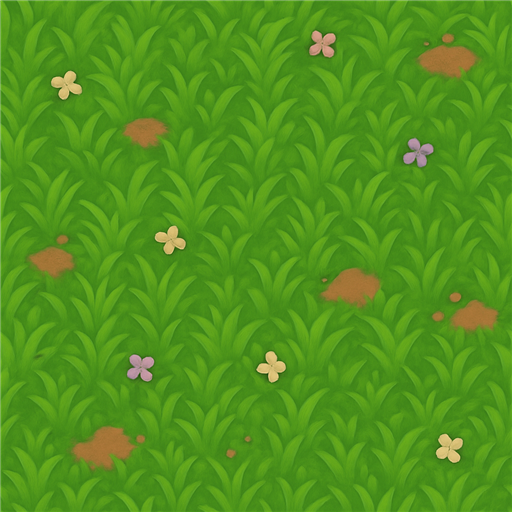
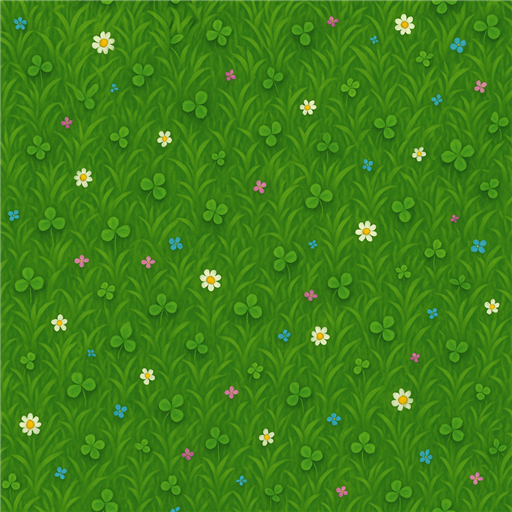
feat: RENDERIZACAO PREMIUM (bloom + IBL + anisotropia + ceu panoramico) + Thais destravada
PIPELINE PREMIUM (o salto de qualidade visual):
- BLOOM cinematografico no PC (UnrealBloomPass): lava, runas, tochas,
  chamas e olhos de monstro IRRADIAM luz de verdade
- ILUMINACAO DE AMBIENTE (IBL via PMREM/RoomEnvironment): metais,
  vidros, agua e armaduras refletem o entorno
- ANISOTROPIA 8x em TODAS as texturas: o chao fica NITIDO ate o
  horizonte (era o grande culpado do visual borrado)
- CEU PANORAMICO pintado (gerado por IA, equiretangular) com nuvens
  majestosas; o ciclo dia/noite tinge o panorama
- mobile continua no caminho direto (fluidez primeiro)

TEXTURAS PREMIUM (leva 3, quality HIGH):
- grama/pedra/telha REGENERADAS em alta qualidade (mais detalhe)
- madeira nova: tabuas reais no pier do porto e pisos das casas
- ceu 1024x512 (~800KB)

THAIS DESTRAVADA:
- casas mais estreitas (8.2) = vielas largas; centro das fileiras vazio
  = ruas transversais (sem becos que prendiam o jogador)
- metade das ameias da muralha (peso 50% menor, mesma silhueta)

diff --git a/src/main3d.js b/src/main3d.js
@@ -21,6 +21,10 @@ import { criaEsgoto } from './jogo/esgoto.js';
 import { criaRato, criaRatos, atualizaRatos, criaCobra, criaCrocodilo, criaTroll, criaCyclops, criaAranhaGigante, criaAranhaPequena, criaLadrao, criaEscorpiao, criaBeholder, criaDragao, criaLobo, criaUrso, criaEsqueleto, criaOrc, criaCaranguejo } from './jogo/ratos.js';
 import { criaHUD } from './jogo/hud.js';
 import { aplicaTexturaReal } from './jogo/construcoes.js';
+import { EffectComposer } from 'three/addons/postprocessing/EffectComposer.js';
+import { RenderPass } from 'three/addons/postprocessing/RenderPass.js';
+import { UnrealBloomPass } from 'three/addons/postprocessing/UnrealBloomPass.js';
+import { RoomEnvironment } from 'three/addons/environments/RoomEnvironment.js';
 
 const container = document.getElementById('game');
 // celular/tablet → modo leve (sem sombras, menos luz, menos pixels) p/ fluidez
@@ -59,7 +63,25 @@ container.appendChild(renderer.domElement);
 
 const camera = new THREE.PerspectiveCamera(60, window.innerWidth / window.innerHeight, 0.1, 900);
 
+// === RENDERIZAÇÃO PREMIUM ===
+// BLOOM (PC): lava, runas, tochas e olhos de monstro IRRADIAM luz de verdade.
+// No mobile fica o caminho direto (fluidez primeiro).
+let composer = null;
+if (!ehMobile) {
+  composer = new EffectComposer(renderer);
+  composer.addPass(new RenderPass(null, camera)); // a cena entra logo abaixo (criaCidade)
+  composer.addPass(new UnrealBloomPass(new THREE.Vector2(window.innerWidth, window.innerHeight), 0.38, 0.55, 0.82));
+}
+
 const { scene, ceu, hemi, sun, skyMat, lua, luaLuz, luaMat, estrelas, postes, obstaculos, solidos, aguas, nuvens, fonteGotas, ruas, marcos, animados, interativos, casas, lagos, montanhaDragao } = criaCidade();
+// liga o bloom na cena + ILUMINAÇÃO DE AMBIENTE (IBL): metais, vidros e água
+// passam a refletir o entorno — o salto de "protótipo" pra "premium"
+if (composer) {
+  composer.passes[0].scene = scene;
+  const pmrem = new THREE.PMREMGenerator(renderer);
+  scene.environment = pmrem.fromScene(new RoomEnvironment(), 0.04).texture;
+  scene.environmentIntensity = 0.55;
+}
 // ALTURA DO TERRENO: plano em todo o mapa, exceto a Montanha do Dragão (rampa
 // cônica escalável até o platô). O avatar "gruda" nessa altura ao andar.
 function alturaTerreno(x, z) {
@@ -563,8 +585,12 @@ function aplicaDiaNoite(dt) {
   ehNoite = d < 0.35;
   sun.intensity = 0.12 + d * 1.25;
   hemi.intensity = 0.22 + d * 0.72;
-  skyMat.uniforms.corTopo.value.copy(C_TOPO_NOITE).lerp(C_TOPO_DIA, d);
-  skyMat.uniforms.corBase.value.copy(C_BASE_NOITE).lerp(C_BASE_DIA, d);
+  if (ceu.material.map) { // céu panorâmico: tinge do dia (branco) pra noite (azul-escuro)
+    ceu.material.color.setRGB(0.16 + d * 0.84, 0.2 + d * 0.8, 0.34 + d * 0.66);
+  } else {
+    skyMat.uniforms.corTopo.value.copy(C_TOPO_NOITE).lerp(C_TOPO_DIA, d);
+    skyMat.uniforms.corBase.value.copy(C_BASE_NOITE).lerp(C_BASE_DIA, d);
+  }
   if (scene.fog) scene.fog.color.copy(C_FOG_NOITE).lerp(C_FOG_DIA, d);
   const noite = 1 - d;
   // LUAR: a lua brilha mais à noite (mas fica visível de dia, pálida) + estrelas surgem
@@ -1469,7 +1495,7 @@ function loop() {
   if (jogoIniciado) minimapa.atualiza(avatar, rede ? rede.outros : null);
   ceu.position.copy(camera.position); // céu sempre em volta da câmera (mundo grande)
 
-  renderer.render(scene, camera);
+  if (composer) composer.render(); else renderer.render(scene, camera);
   requestAnimationFrame(loop);
 }
 loop();
@@ -1478,6 +1504,7 @@ window.addEventListener('resize', () => {
   camera.aspect = window.innerWidth / window.innerHeight;
   camera.updateProjectionMatrix();
   renderer.setSize(window.innerWidth, window.innerHeight);
+  if (composer) composer.setSize(window.innerWidth, window.innerHeight);
 });
 
 window.__jogo = {

diff --git a/src/jogo/interiores.js b/src/jogo/interiores.js
@@ -6,7 +6,7 @@
 //  Devolve { grupo, colisores, interativo (porta), animados, casa }.
 // =============================================================
 import * as THREE from 'three';
-import { mat, criaJanela, texturaPedra } from './construcoes.js';
+import { mat, criaJanela, texturaPedra, aplicaTexturaReal } from './construcoes.js';
 
 export function criaCasaInterior(x, z, opts = {}) {
   const { larg = 9, prof = 9, alt = 4, frente = 'sul', cor = 0xd8c4a0, corTelhado = 0x8a4632 } = opts;
@@ -15,8 +15,10 @@ export function criaCasaInterior(x, z, opts = {}) {
   const paredeMat = mat(cor);
   const colisores = [];
 
-  // chão de tábua
-  const chao = new THREE.Mesh(new THREE.BoxGeometry(larg, 0.1, prof), mat(0x8a6a44));
+  // chão de tábua (textura REAL de madeira quando carregar)
+  const chaoMat = new THREE.MeshStandardMaterial({ color: 0x8a6a44, roughness: 1 });
+  aplicaTexturaReal(chaoMat, 'madeira', 2, 2);
+  const chao = new THREE.Mesh(new THREE.BoxGeometry(larg, 0.1, prof), chaoMat);
   chao.position.y = 0.05; chao.receiveShadow = true; g.add(chao);
 
   // segmento de parede (caixa) + colisor em coords do mundo

diff --git a/src/jogo/cidade.js b/src/jogo/cidade.js
@@ -32,6 +32,7 @@ function texturaGrama(rep = 60) {
   }
   const t = new THREE.CanvasTexture(c);
   t.wrapS = t.wrapT = THREE.RepeatWrapping; t.repeat.set(rep, rep);
+  t.anisotropy = 8; // nitidez ao longe
   return t;
 }
 
@@ -48,6 +49,12 @@ export function criaCidade() {
   });
   const ceu = new THREE.Mesh(new THREE.SphereGeometry(600, 24, 16), skyMat);
   scene.add(ceu);
+  // CÉU PREMIUM: panorama pintado (gerado por IA) substitui o gradiente quando
+  // carregar; o ciclo dia/noite passa a TINGIR o panorama (main3d)
+  new THREE.TextureLoader().load('texturas/ceu.png', (t) => {
+    t.colorSpace = THREE.SRGBColorSpace;
+    ceu.material = new THREE.MeshBasicMaterial({ map: t, side: THREE.BackSide, fog: false });
+  }, undefined, () => {});
 
   const hemi = new THREE.HemisphereLight(0xcfe2f5, 0x6f6a52, 0.95);
   scene.add(hemi);

diff --git a/src/jogo/thais.js b/src/jogo/thais.js
@@ -30,7 +30,7 @@ export function criaThais(cx, cz, opts = {}) {
 
   // --- MURALHA com ameias ---
   function ameias(lx, lz, comp, eixo) {
-    const n = Math.max(1, Math.floor(comp / 2.4));
+    const n = Math.max(1, Math.floor(comp / 4.2)); // metade das ameias (peso 50% menor, mesma silhueta)
     for (let i = 0; i < n; i++) {
       const t = -comp / 2 + comp / n / 2 + i * (comp / n);
       const a = new THREE.Mesh(new THREE.BoxGeometry(eixo === 'x' ? 1.2 : ESP + 0.3, 1.3, eixo === 'x' ? ESP + 0.3 : 1.2), pedraClara);
@@ -132,8 +132,11 @@ export function criaThais(cx, cz, opts = {}) {
   const coresT = [0xd8c8a4, 0xcdb892, 0xd2c19a, 0xcab98e, 0xdccfae];
   const telhT = [0xc0653a, 0x2f8d80, 0x9a4a3a, 0xb8742a];
   let ci = 0;
+  // casas mais estreitas (8.2) = vielas LARGAS; o centro de cada fileira fica
+  // vazio = ruas transversais (o jogador não TRAVA mais em beco)
   for (const lz of [32, -32, 44, -44]) for (let lx = -36; lx <= 36; lx += 12) {
-    predio(lx, lz, 9, 8, 6 + (ci % 3), coresT[ci % coresT.length], telhT[ci % telhT.length]); ci++;
+    if (lx === 0) { ci++; continue; } // rua transversal norte-sul
+    predio(lx, lz, 8.2, 8, 6 + (ci % 3), coresT[ci % coresT.length], telhT[ci % telhT.length]); ci++;
   }
   [[-46, -16], [-46, 16]].forEach(([lx, lz]) => { predio(lx, lz, 8, 8, 7, coresT[ci % 5], telhT[ci % 4]); ci++; });
   [[44, -24], [44, -8], [44, 8], [44, 24]].forEach(([lx, lz]) => { predio(lx, lz, 9, 8, 6 + (ci % 3), coresT[ci % 5], telhT[ci % 4], 'x'); ci++; });

diff --git a/src/jogo/natureza.js b/src/jogo/natureza.js
@@ -223,7 +223,9 @@ export function criaPlaca(x, z, texto = '→ THAIS', rot = 0) {
 export function criaCais(x, z, comp = 12) {
   const g = new THREE.Group(); g.position.set(x, 0, z);
   const mad = mat(0x6e4a2a), madEsc = mat(0x4f3318);
-  const deck = new THREE.Mesh(new THREE.BoxGeometry(3, 0.16, comp), mad);
+  const deckMat = new THREE.MeshStandardMaterial({ color: 0x8a6a44, roughness: 1 });
+  aplicaTexturaReal(deckMat, 'madeira', 1, 4); // tábuas REAIS no píer
+  const deck = new THREE.Mesh(new THREE.BoxGeometry(3, 0.16, comp), deckMat);
   deck.position.set(0, 0.22, comp / 2); deck.receiveShadow = true; deck.castShadow = true; g.add(deck);
   for (let i = 0; i <= comp / 2; i++) {
     [-1.3, 1.3].forEach((px) => {

diff --git a/src/jogo/construcoes.js b/src/jogo/construcoes.js
@@ -20,6 +20,7 @@ export function aplicaTexturaReal(material, arquivo, rx, rz, manterCor = false) 
     t.wrapS = t.wrapT = THREE.RepeatWrapping;
     t.repeat.set(rx, rz);
     t.colorSpace = THREE.SRGBColorSpace;
+    t.anisotropy = 8; // NITIDEZ em ângulo raso (o chão não borra mais ao longe)
     material.map = t;
     if (!manterCor) material.color.set(0xffffff);
     material.needsUpdate = true;
@@ -48,7 +49,7 @@ export function texturaPedra(rep = 6) {
     _texPedra = new THREE.CanvasTexture(c);
     _texPedra.wrapS = _texPedra.wrapT = THREE.RepeatWrapping;
   }
-  const t = _texPedra.clone(); t.needsUpdate = true; t.repeat.set(rep, rep); return t;
+  const t = _texPedra.clone(); t.needsUpdate = true; t.repeat.set(rep, rep); t.anisotropy = 8; return t;
 }
 
 function _jbox(w, h, d, material, x, y, z) {